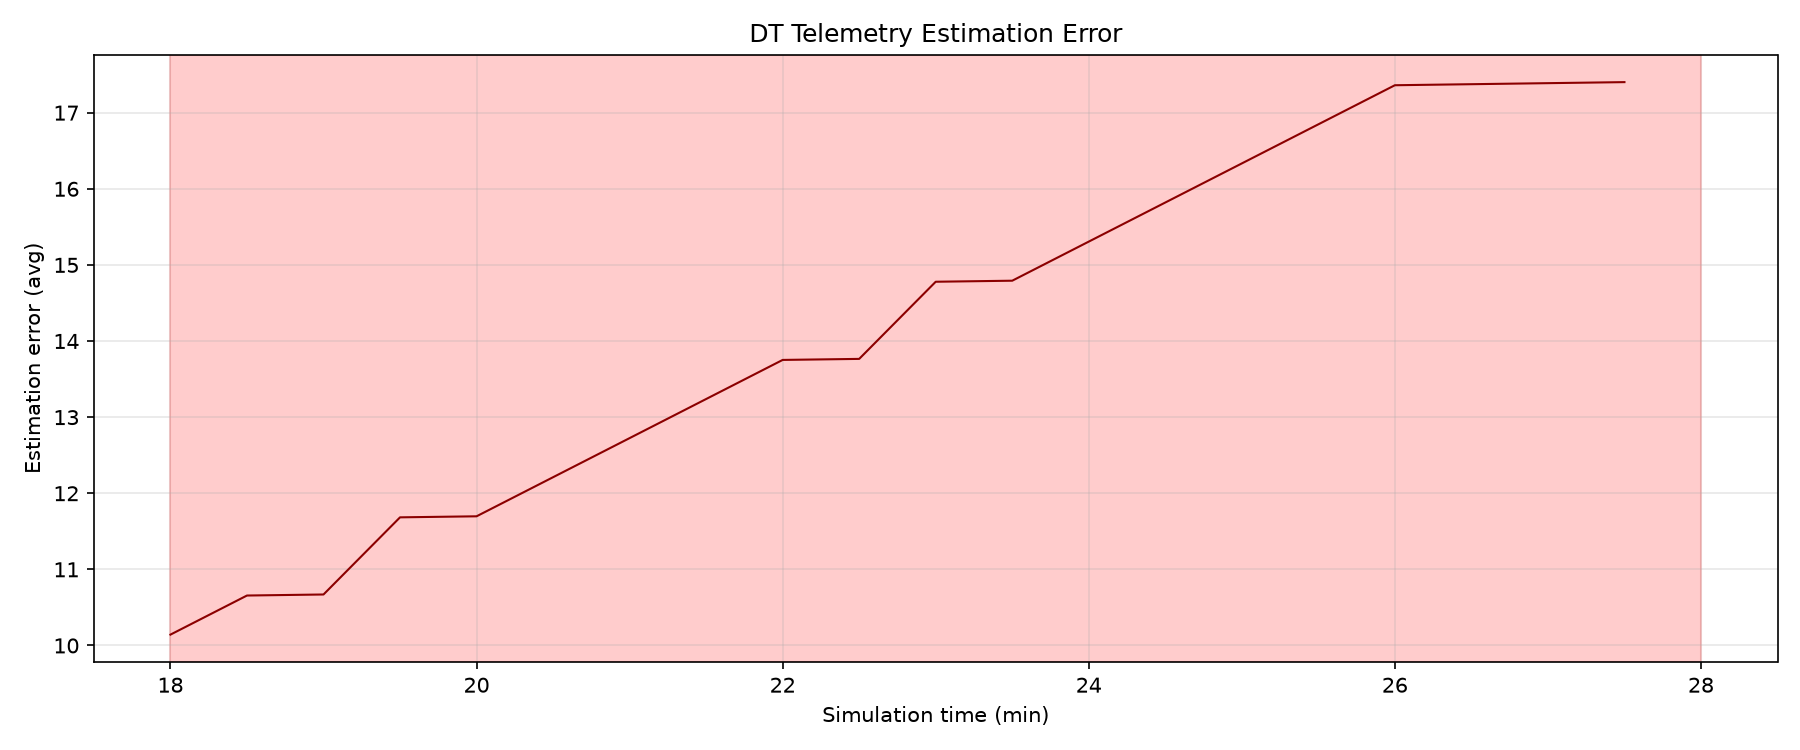
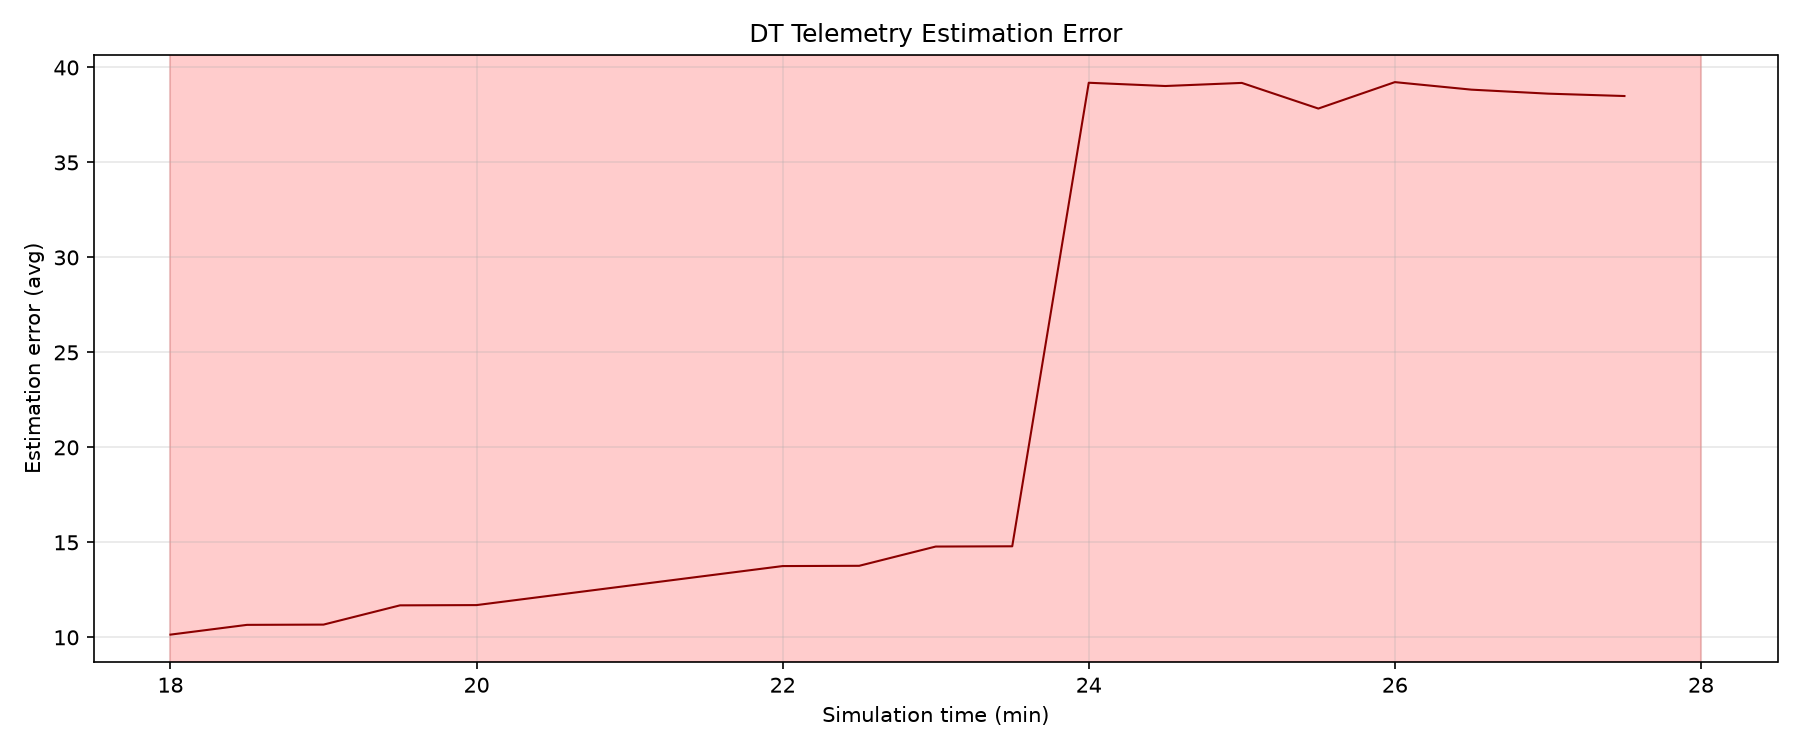
feat: improve kde

diff --git a/README.md b/README.md
@@ -11,18 +11,18 @@ python3 -m venv .venv
 source .venv/bin/activate
 pip install -r requirements.txt
 
-# Run baseline vs DT-driven comparison
+# Run comparison: baseline (no DT) vs DT-driven
 python -m src.main --mode compare
 
 # Run individual modes
 python -m src.main --mode single        # DT-driven only
-python -m src.main --mode baseline      # Fixed policies, no DT
+python -m src.main --mode baseline      # No DT, no orchestrator
 
-# Custom config and seed
-python -m src.main --config config/baseline.json --seed 123
+# Custom seed
+python -m src.main --seed 123
 ```
 
-Outputs go to `output/`: PNG plots and a `metrics_summary.json`.
+Outputs go to `output/`: PNG plots and `metrics_summary.json` per run.
 
 ## Architecture
 
@@ -139,14 +139,25 @@ Default config creates an outage during sim-min 18–28 (real-world hour 18–28
 
 Each edge has an independent single-server queue. There is no cross-edge pooling or load balancing. If G/G/s (shared queue with parallel servers) is needed, the queue architecture would need to be restructured.
 
-### 2. Prediction strategies
+### 2. Baseline vs Historical — important distinction
 
-Three strategies are available via `dt.prediction.strategy` in config:
+Two terms that sound similar but mean different things:
+
+| Term | What it is | Applies to |
+|---|---|---|
+| **Baseline** | A **run mode** (`--mode baseline` or the internal comparison run). Runs the simulation **without a Digital Twin at all** — no telemetry estimation, no orchestration. Shows what happens naturally. | Entire simulation |
+| **Historical** | A **prediction strategy** (`dt.prediction.strategy: "historical"`). Used *within* the DT to estimate telemetry during an outage using exponentially-weighted moving averages. | DT's outage estimator |
+
+In other words: the baseline tells you "what would happen with no DT." The historical strategy tells you "how the DT fills gaps when it's active." They are not interchangeable.
+
+### 3. Prediction strategies
+
+The DT supports three pluggable prediction strategies set via `dt.prediction.strategy`:
 
 | Strategy | Description |
 |---|---|
 | `historical` | Exponentially-weighted moving average with linear trend extrapolation and post-outage bias correction. Default. |
-| `kde` | Gaussian Kernel Density Estimation. Builds per-phase KDE models (6 workload phases) from pre-outage telemetry. During outages, samples from the phase-matched KDE. Falls back to `historical` when fewer than `kde_min_samples` observations exist for the current phase. Requires only NumPy. |
+| `kde` | Multivariate Gaussian Kernel Density Estimation. Models the joint 5-dimensional distribution (queue_length, arrival_rate, utilization, processing_rate, mean_wait_time) per workload phase, preserving cross-metric correlations. Falls back to `historical` when fewer than `kde_min_samples` observations exist for the current phase. Requires only NumPy. |
 | `wgan` | Wasserstein GAN with gradient penalty (WGAN-GP). Trains a small generator MLP (latent noise + phase one-hot → 5 metrics) online during normal operation, retraining every 5 sim-minutes. During outages, samples from the generator conditioned on the current workload phase. Falls back to `kde` → `historical` when training data are insufficient. Requires PyTorch. |
 
 KDE and WGAN both condition predictions on the current **workload phase** (night / morning-ramp / morning-peak / midday / evening-ramp / evening), improving accuracy when outages span periods with different traffic intensities.
@@ -166,14 +177,7 @@ Key new config parameters under `dt.prediction`:
 
 ## Configuration
 
-Two config files are provided:
-
-| File | DT Enabled | Orchestrator | Purpose |
-|---|---|---|---|
-| `config/default.json` | Yes | Yes | Full DT-driven orchestration |
-| `config/baseline.json` | Yes (no recommendations) | Disabled | Fixed policies for comparison |
-
-Key parameters:
+The default config file is `config/default.json`. Key parameters:
 
 ```json
 {
@@ -198,16 +202,44 @@ Key parameters:
 
 ## Outputs
 
-Running `--mode compare` produces:
+Running `--mode compare` produces the following directory structure under `output/`:
+
+```
+output/
+  baseline/                      # Reference run (no DT)
+    queue_length.png
+    utilization.png
+    latency.png
+    throughput.png
+    fl_convergence.png
+    metrics_summary.json
+  dt/                            # DT-driven run
+    queue_length.png
+    utilization.png
+    latency.png
+    throughput.png
+    fl_convergence.png
+    dt_estimation_error.png
+    metrics_summary.json
+    historical/                  # Strategy-specific distribution analysis
+      distribution_histograms.png
+      distribution_correlations.png
+      distribution_joint.png
+      distribution_errors.json
+```
 
 | Plot | What it shows |
 |---|---|
-| `*_queue_length.png` | Per-edge queue length over time |
-| `*_utilization.png` | Per-edge load ratio (arrival_rate / service_rate) over time |
-| `*_latency.png` | Mean frame wait time per edge |
-| `*_throughput.png` | Processing rate per edge |
-| `*_fl_convergence.png` | FL convergence metric over rounds |
-| `dt_dt_estimation_error.png` | DT estimation error during/after outage |
+| `queue_length.png` | Per-edge queue length over time |
+| `utilization.png` | Per-edge load ratio (arrival_rate / service_rate) over time |
+| `latency.png` | Mean frame wait time per edge |
+| `throughput.png` | Processing rate per edge |
+| `fl_convergence.png` | FL convergence metric over rounds |
+| `dt_estimation_error.png` | DT estimation error during/after outage |
+| `distribution_histograms.png` | Ground truth vs synthesized distribution overlay (per metric) |
+| `distribution_correlations.png` | Ground truth vs synthesized correlation matrices |
+| `distribution_joint.png` | Joint-distribution scatter plots for metric pairs |
+| `distribution_errors.json` | Per-metric MAE, RMSE, and correlation fidelity score |
 | `metrics_summary.json` | Aggregate stats (mean, max, p50, p95) for all metrics |
 
-Plots include red shaded bands marking telemetry outage periods.
+All plots include red shaded bands marking telemetry outage periods.
